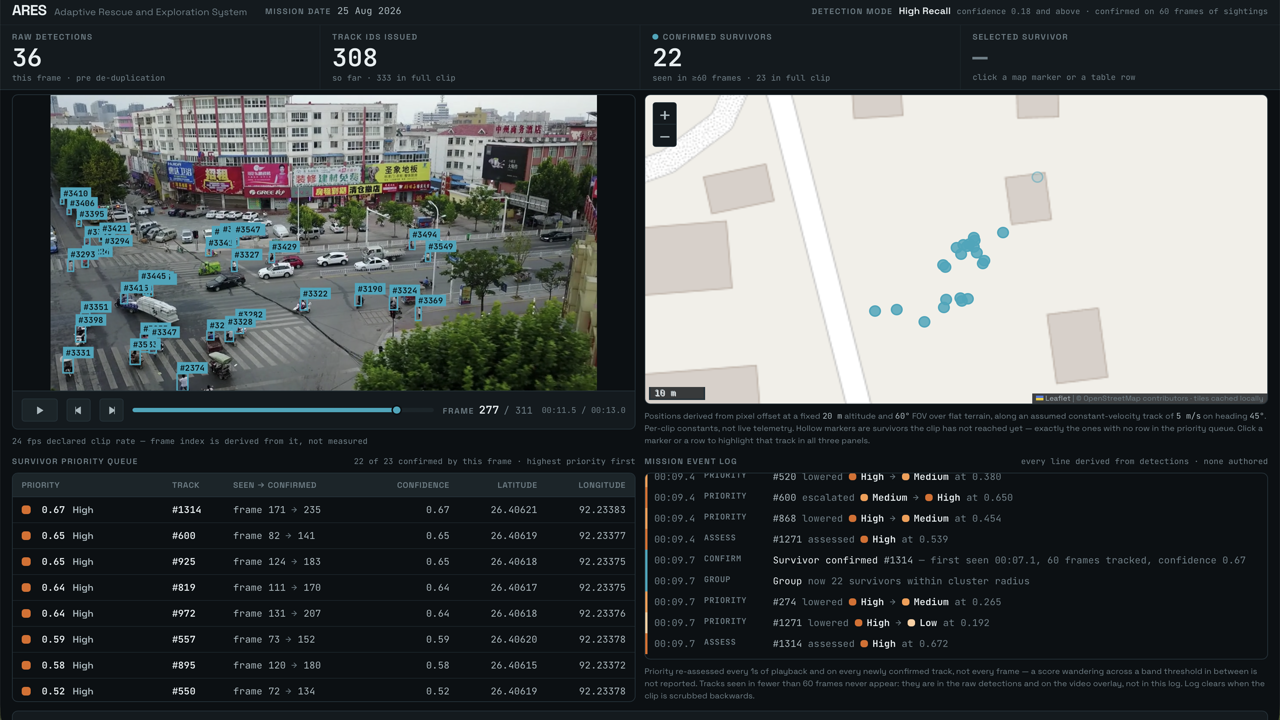
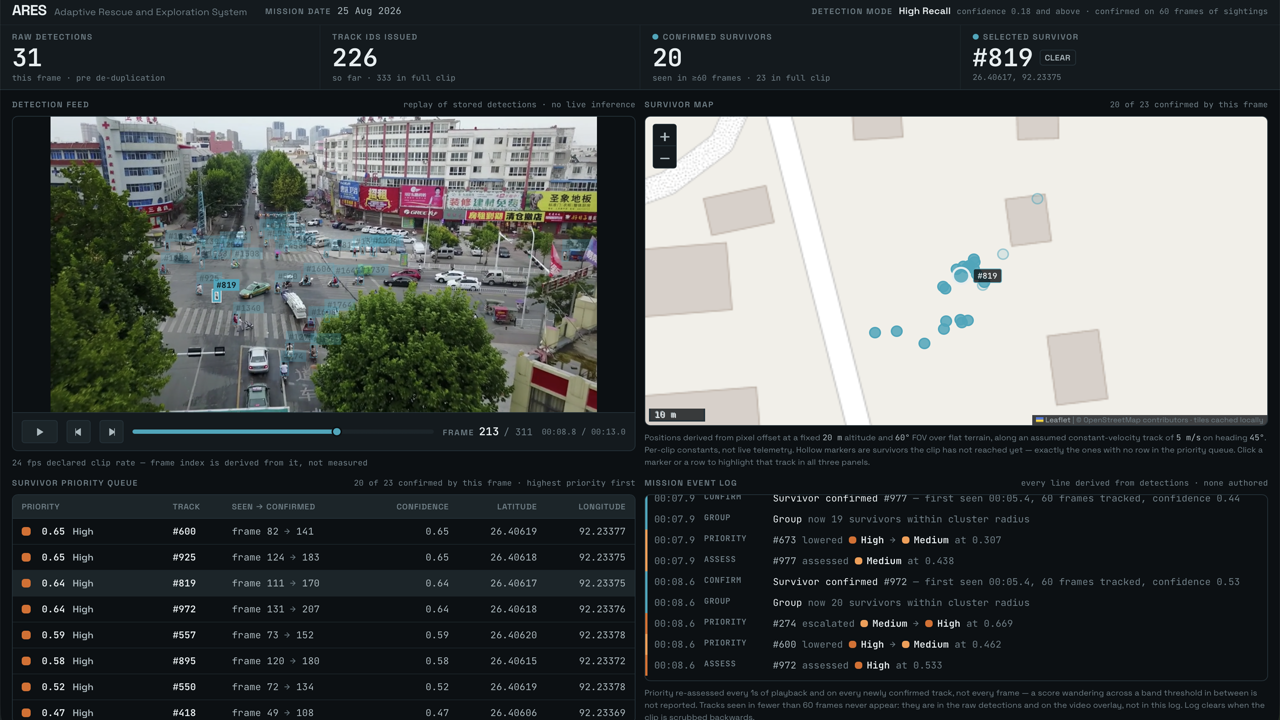
improved website

diff --git a/docs/site/index.html b/docs/site/index.html
@@ -628,10 +628,10 @@ footer .fine{margin-top:18px;font-size:10px;letter-spacing:.04em;text-transform:
     </p>
 
     <div class="rv d2" style="display:grid;gap:14px;margin-top:44px">
-      <div class="shot"><div class="h">Command dashboard — full view</div><div class="f">REPLACE WITH img/dashboard-full.png</div></div>
+      <div class="shot"><img src="img/dashboard-full.png" alt="ARES command dashboard during playback"></div>
       <div style="display:grid;gap:14px;grid-template-columns:repeat(auto-fit,minmax(270px,1fr))">
-        <div class="shot"><div class="h">Map &amp; rescue queue</div><div class="f">img/dashboard-map.png</div></div>
-        <div class="shot"><div class="h">Detection overlay</div><div class="f">img/dashboard-overlay.png</div></div>
+        <div class="shot"><img src="img/dashboard-map.png" alt="ARES dashboard map and rescue queue"></div>
+        <div class="shot"><img src="img/dashboard-overlay.png" alt="ARES video panel with detection boxes"></div>
       </div>
     </div>
   </div>
